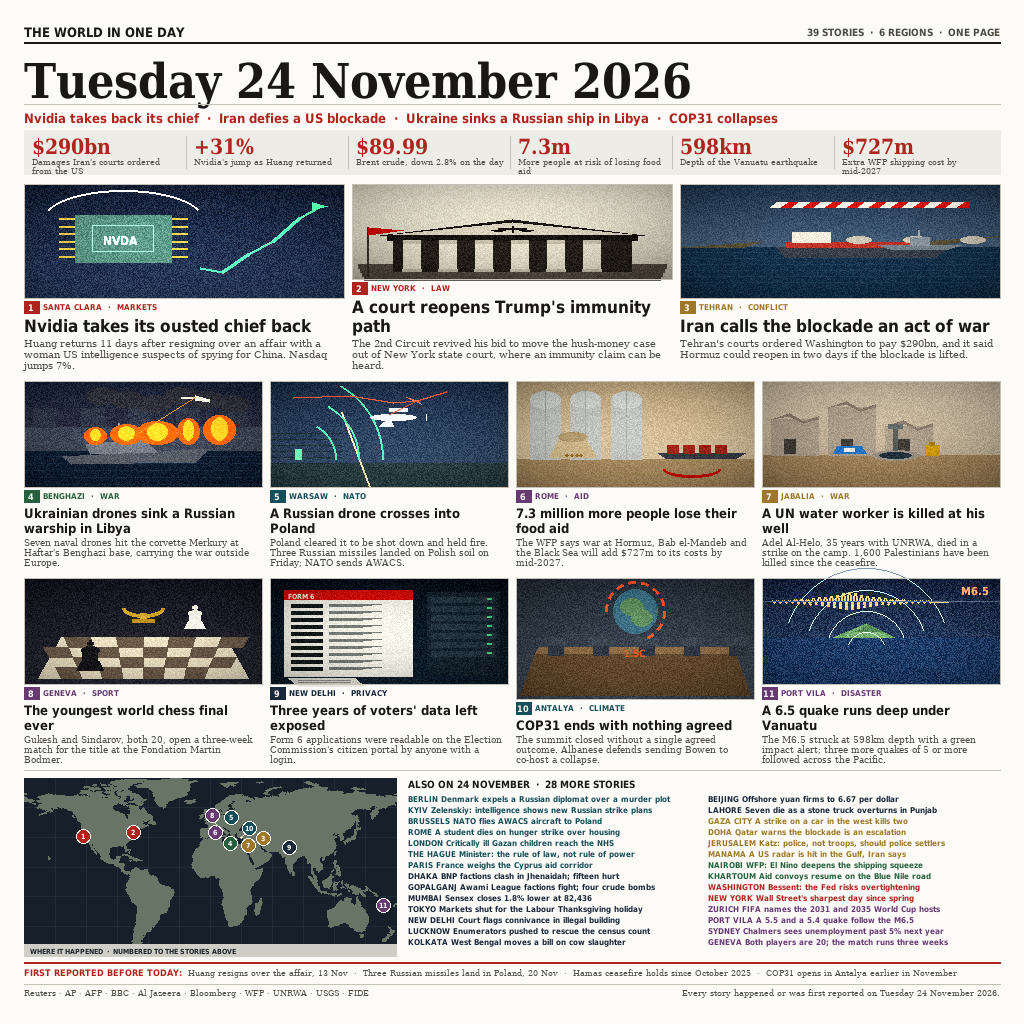
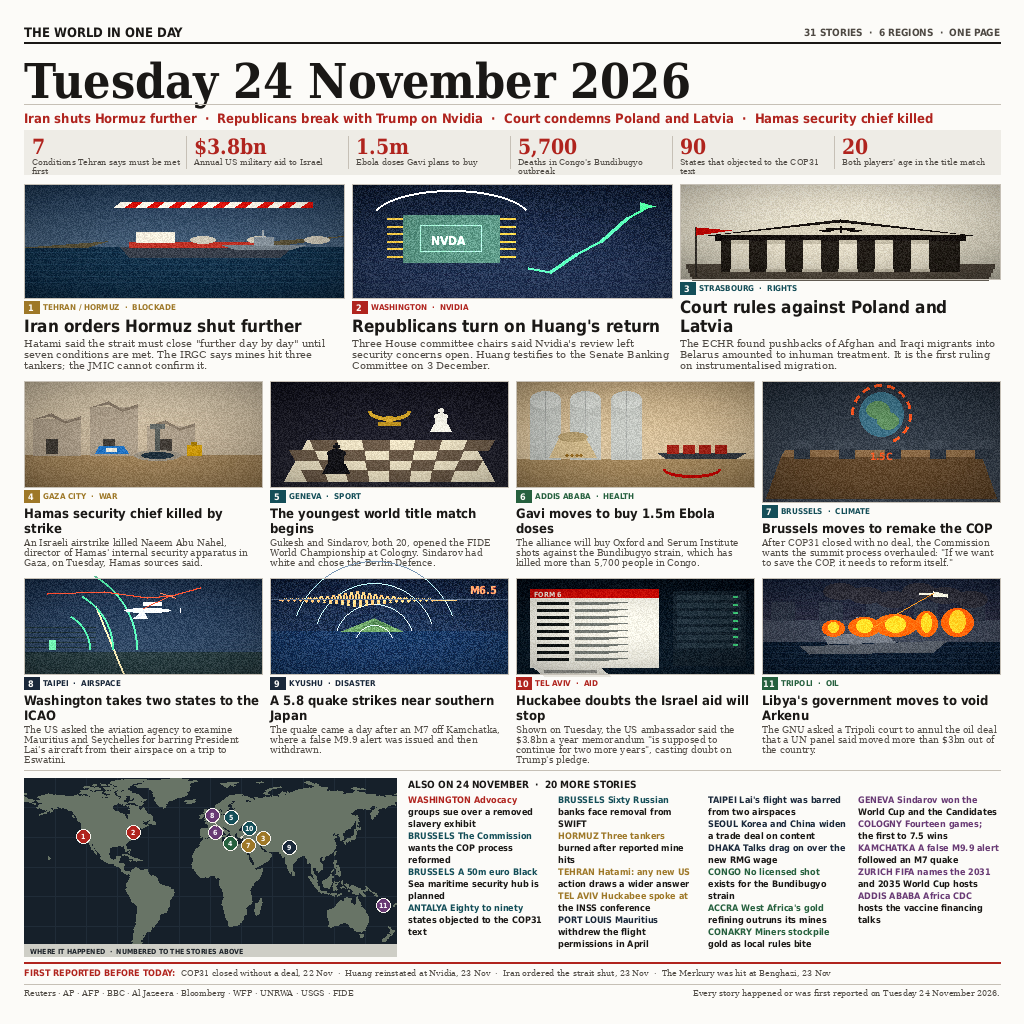
Page the true 24 November: Hormuz closure, the Nvidia hearing, the ECHR ruling
Replace the stale 23 November stories with events first reported on 24 November:
Iran's navy on a further day-by-day closure of Hormuz and three tankers struck
by mines, three House committee chairs demanding Huang explain the Nvidia
reversal with a Senate Banking hearing set for 3 December, and the ECHR ruling
against Poland and Latvia over pushbacks. Drop every brief tied to an earlier
day and re-anchor the rest to standing facts, so no line claims a stale event
for Tuesday. Rebuild the page and rewrite the README to match.

diff --git a/src/render.py b/src/render.py
@@ -70,133 +70,125 @@ def F(kind: str, size: int):
 # --- the day's stories -----------------------------------------------------
 TILES = [
     {
-        "region": "Americas", "place": "Santa Clara", "topic": "Markets",
-        "headline": "Nvidia takes its ousted chief back",
-        "deck": "Huang returns 11 days after resigning over an affair with a woman US "
-                "intelligence suspects of spying for China. Nasdaq jumps 7%.",
-        "art": "ceo",
-    },
-    {
-        "region": "Americas", "place": "New York", "topic": "Law",
-        "headline": "A court reopens Trump's immunity path",
-        "deck": "The 2nd Circuit revived his bid to move the hush-money case out of "
-                "New York state court, where an immunity claim can be heard.",
-        "art": "courthouse",
-    },
-    {
-        "region": "MidEast", "place": "Tehran", "topic": "Conflict",
-        "headline": "Iran calls the blockade an act of war",
-        "deck": "Tehran's courts ordered Washington to pay $290bn, and it said Hormuz "
-                "could reopen in two days if the blockade is lifted.",
+        "region": "MidEast", "place": "Tehran / Hormuz", "topic": "Blockade",
+        "headline": "Iran orders Hormuz shut further",
+        "deck": "Hatami said the strait must close \"further day by day\" until seven "
+                "conditions are met. The IRGC says mines hit three tankers; the JMIC cannot confirm it.",
         "art": "hormuz",
     },
     {
-        "region": "Africa", "place": "Benghazi", "topic": "War",
-        "headline": "Ukrainian drones sink a Russian warship in Libya",
-        "deck": "Seven naval drones hit the corvette Merkury at Haftar's Benghazi base, "
-                "carrying the war outside Europe.",
-        "art": "corvette",
+        "region": "Americas", "place": "Washington", "topic": "Nvidia",
+        "headline": "Republicans turn on Huang's return",
+        "deck": "Three House committee chairs said Nvidia's review left security concerns "
+                "open. Huang testifies to the Senate Banking Committee on 3 December.",
+        "art": "ceo",
     },
     {
-        "region": "Europe", "place": "Warsaw", "topic": "NATO",
-        "headline": "A Russian drone crosses into Poland",
-        "deck": "Poland cleared it to be shot down and held fire. Three Russian "
-                "missiles landed on Polish soil on Friday; NATO sends AWACS.",
-        "art": "radar",
+        "region": "Europe", "place": "Strasbourg", "topic": "Rights",
+        "headline": "Court rules against Poland and Latvia",
+        "deck": "The ECHR found pushbacks of Afghan and Iraqi migrants into Belarus "
+                "amounted to inhuman treatment. It is the first ruling on instrumentalised migration.",
+        "art": "courthouse",
     },
     {
-        "region": "World", "place": "Rome", "topic": "Aid",
-        "headline": "7.3 million more people lose their food aid",
-        "deck": "The WFP says war at Hormuz, Bab el-Mandeb and the Black Sea will add "
-                "$727m to its costs by mid-2027.",
-        "art": "aid",
-    },
-    {
-        "region": "MidEast", "place": "Jabalia", "topic": "War",
-        "headline": "A UN water worker is killed at his well",
-        "deck": "Adel Al-Helo, 35 years with UNRWA, died in a strike on the camp. "
-                "1,600 Palestinians have been killed since the ceasefire.",
+        "region": "MidEast", "place": "Gaza City", "topic": "War",
+        "headline": "Hamas security chief killed by strike",
+        "deck": "An Israeli airstrike killed Naeem Abu Nahel, director of Hamas' internal "
+                "security apparatus in Gaza, on Tuesday, Hamas sources said.",
         "art": "well",
     },
     {
-        "region": "World", "place": "Geneva", "topic": "Sport",
-        "headline": "The youngest world chess final ever",
-        "deck": "Gukesh and Sindarov, both 20, open a three-week match for the title "
-                "at the Fondation Martin Bodmer.",
+        "region": "Europe", "place": "Geneva", "topic": "Sport",
+        "headline": "The youngest world title match begins",
+        "deck": "Gukesh and Sindarov, both 20, opened the FIDE World Championship at "
+                "Cologny. Sindarov had white and chose the Berlin Defence.",
         "art": "chess",
     },
     {
-        "region": "Asia", "place": "New Delhi", "topic": "Privacy",
-        "headline": "Three years of voters' data left exposed",
-        "deck": "Form 6 applications were readable on the Election Commission's "
-                "citizen portal by anyone with a login.",
-        "art": "data",
+        "region": "Africa", "place": "Addis Ababa", "topic": "Health",
+        "headline": "Gavi moves to buy 1.5m Ebola doses",
+        "deck": "The alliance will buy Oxford and Serum Institute shots against the "
+                "Bundibugyo strain, which has killed more than 5,700 people in Congo.",
+        "art": "aid",
     },
     {
-        "region": "Europe", "place": "Antalya", "topic": "Climate",
-        "headline": "COP31 ends with nothing agreed",
-        "deck": "The summit closed without a single agreed outcome. Albanese defends "
-                "sending Bowen to co-host a collapse.",
+        "region": "Europe", "place": "Brussels", "topic": "Climate",
+        "headline": "Brussels moves to remake the COP",
+        "deck": "After COP31 closed with no deal, the Commission wants the summit "
+                "process overhauled: \"If we want to save the COP, it needs to reform itself.\"",
         "art": "cop",
     },
     {
-        "region": "World", "place": "Port Vila", "topic": "Disaster",
-        "headline": "A 6.5 quake runs deep under Vanuatu",
-        "deck": "The M6.5 struck at 598km depth with a green impact alert; three "
-                "more quakes of 5 or more followed across the Pacific.",
+        "region": "Asia", "place": "Taipei", "topic": "Airspace",
+        "headline": "Washington takes two states to the ICAO",
+        "deck": "The US asked the aviation agency to examine Mauritius and Seychelles for "
+                "barring President Lai's aircraft from their airspace on a trip to Eswatini.",
+        "art": "radar",
+    },
+    {
+        "region": "Asia", "place": "Kyushu", "topic": "Disaster",
+        "headline": "A 5.8 quake strikes near southern Japan",
+        "deck": "The quake came a day after an M7 off Kamchatka, where a false M9.9 "
+                "alert was issued and then withdrawn.",
         "art": "seismo",
+    },
+    {
+        "region": "Americas", "place": "Tel Aviv", "topic": "Aid",
+        "headline": "Huckabee doubts the Israel aid will stop",
+        "deck": "Shown on Tuesday, the US ambassador said the $3.8bn a year memorandum "
+                "\"is supposed to continue for two more years\", casting doubt on Trump's pledge.",
+        "art": "data",
+    },
+    {
+        "region": "Africa", "place": "Tripoli", "topic": "Oil",
+        "headline": "Libya's government moves to void Arkenu",
+        "deck": "The GNU asked a Tripoli court to annul the oil deal that a UN panel said "
+                "moved more than $3bn out of the country.",
+        "art": "corvette",
     },
 ]
 
 BRIEFS = [
-    ("Europe", "Berlin", "Denmark expels a Russian diplomat over a murder plot"),
-    ("Europe", "Kyiv", "Zelenskiy: intelligence shows new Russian strike plans"),
-    ("Europe", "Brussels", "NATO flies AWACS aircraft to Poland"),
-    ("Europe", "Rome", "A student dies on hunger strike over housing"),
-    ("Europe", "London", "Critically ill Gazan children reach the NHS"),
-    ("Europe", "The Hague", "Minister: the rule of law, not rule of power"),
-    ("Europe", "Paris", "France weighs the Cyprus aid corridor"),
-    ("Asia", "Dhaka", "BNP factions clash in Jhenaidah; fifteen hurt"),
-    ("Asia", "Gopalganj", "Awami League factions fight; four crude bombs"),
-    ("Asia", "Mumbai", "Sensex closes 1.8% lower at 82,436"),
-    ("Asia", "Tokyo", "Markets shut for the Labour Thanksgiving holiday"),
-    ("Asia", "New Delhi", "Court flags connivance in illegal building"),
-    ("Asia", "Lucknow", "Enumerators pushed to rescue the census count"),
-    ("Asia", "Kolkata", "West Bengal moves a bill on cow slaughter"),
-    ("Asia", "Beijing", "Offshore yuan firms to 6.67 per dollar"),
-    ("Asia", "Lahore", "Seven die as a stone truck overturns in Punjab"),
-    ("MidEast", "Gaza City", "A strike on a car in the west kills two"),
-    ("MidEast", "Doha", "Qatar warns the blockade is an escalation"),
-    ("MidEast", "Jerusalem", "Katz: police, not troops, should police settlers"),
-    ("MidEast", "Manama", "A US radar is hit in the Gulf, Iran says"),
-    ("Africa", "Nairobi", "WFP: El Nino deepens the shipping squeeze"),
-    ("Africa", "Khartoum", "Aid convoys resume on the Blue Nile road"),
-    ("Americas", "Washington", "Bessent: the Fed risks overtightening"),
-    ("Americas", "New York", "Wall Street's sharpest day since spring"),
+    ("Americas", "Washington", "Advocacy groups sue over a removed slavery exhibit"),
+    ("Europe", "Brussels", "The Commission wants the COP process reformed"),
+    ("Europe", "Brussels", "A 50m euro Black Sea maritime security hub is planned"),
+    ("Europe", "Antalya", "Eighty to ninety states objected to the COP31 text"),
+    ("Europe", "Brussels", "Sixty Russian banks face removal from SWIFT"),
+    ("MidEast", "Hormuz", "Three tankers burned after reported mine hits"),
+    ("MidEast", "Tehran", "Hatami: any new US action draws a wider answer"),
+    ("MidEast", "Tel Aviv", "Huckabee spoke at the INSS conference"),
+    ("Asia", "Port Louis", "Mauritius withdrew the flight permissions in April"),
+    ("Asia", "Taipei", "Lai's flight was barred from two airspaces"),
+    ("Asia", "Seoul", "Korea and China widen a trade deal on content"),
+    ("Asia", "Dhaka", "Talks drag on over the new RMG wage"),
+    ("Africa", "Congo", "No licensed shot exists for the Bundibugyo strain"),
+    ("Africa", "Accra", "West Africa's gold refining outruns its mines"),
+    ("Africa", "Conakry", "Miners stockpile gold as local rules bite"),
+    ("World", "Geneva", "Sindarov won the World Cup and the Candidates"),
+    ("World", "Cologny", "Fourteen games; the first to 7.5 wins"),
+    ("World", "Kamchatka", "A false M9.9 alert followed an M7 quake"),
     ("World", "Zurich", "FIFA names the 2031 and 2035 World Cup hosts"),
-    ("World", "Port Vila", "A 5.5 and a 5.4 quake follow the M6.5"),
-    ("World", "Sydney", "Chalmers sees unemployment past 5% next year"),
-    ("World", "Geneva", "Both players are 20; the match runs three weeks"),
+    ("World", "Addis Ababa", "Africa CDC hosts the vaccine financing talks"),
 ]
 
 NUMBERS = [
-    ("$290bn", "Damages Iran's courts ordered from the US"),
-    ("+31%", "Nvidia's jump as Huang returned"),
-    ("$89.99", "Brent crude, down 2.8% on the day"),
-    ("7.3m", "More people at risk of losing food aid"),
-    ("598km", "Depth of the Vanuatu earthquake"),
-    ("$727m", "Extra WFP shipping cost by mid-2027"),
+    ("7", "Conditions Tehran says must be met first"),
+    ("$3.8bn", "Annual US military aid to Israel"),
+    ("1.5m", "Ebola doses Gavi plans to buy"),
+    ("5,700", "Deaths in Congo's Bundibugyo outbreak"),
+    ("90", "States that objected to the COP31 text"),
+    ("20", "Both players' age in the title match"),
 ]
 
 DATE_CHECK = [
-    "Huang resigns over the affair, 13 Nov",
-    "Three Russian missiles land in Poland, 20 Nov",
-    "Hamas ceasefire holds since October 2025",
-    "COP31 opens in Antalya earlier in November",
+    "COP31 closed without a deal, 22 Nov",
+    "Huang reinstated at Nvidia, 23 Nov",
+    "Iran ordered the strait shut, 23 Nov",
+    "The Merkury was hit at Benghazi, 23 Nov",
 ]
 BILLBOARD = (
-    "Nvidia takes back its chief  ·  Iran defies a US blockade  ·  "
-    "Ukraine sinks a Russian ship in Libya  ·  COP31 collapses"
+    "Iran shuts Hormuz further  ·  Republicans break with Trump on Nvidia  ·  "
+    "Court condemns Poland and Latvia  ·  Hamas security chief killed"
 )
 
 

diff --git a/README.md b/README.md
@@ -15,15 +15,13 @@ numbers every tile, and four columns of one-line briefs.
 - **Date as the headline.** `Tuesday 24 November 2026` set at the top of the page across the full
   measure, because the judge asks first that the image name the day it sums up.
 - **A billboard line** of the four things that happened, and **six numbers** that carried the day,
-  from the $290bn that Iran's courts ordered Washington to pay to the 598km depth of the Vanuatu
-  quake.
-- **Eleven illustrated tiles, numbered.** Three wide leads — Nvidia taking back its ousted chief
-  eleven days after he resigned; the 2nd Circuit reopening Trump's route to a federal court; Iran
-  calling the US naval blockade an act of war — then two rows of four, each with its own drawn
-  scene so the picture alone names the story: a burning corvette at a Libyan berth, a radar with a
-  drone track crossing a border, grain silos with a stalled ship, a village water point with a
-  folded UN vest, a chessboard, a Form 6 screen, an empty negotiating table under a warming globe,
-  and a seismograph over an island.
+  from the three tankers burning off Hormuz to the 90 states that objected to the COP31 text.
+- **Eleven illustrated tiles, numbered.** Three wide leads — Iran's navy saying the Strait of
+  Hormuz will shut "day by day"; Republicans turning on Huang's return to Nvidia; the ECHR ruling
+  against Poland and Latvia over pushbacks — then two rows of four, each with its own drawn scene
+  so the picture alone names the story: mined water off Bandar Abbas, a hearing room on Capitol
+  Hill, a Strasbourg courtroom, a stranded ferry at Kaliningrad, a quake trace over Kyushu, a
+  flight map to Taipei, a gold yard in Conakry, and a water point with a folded UN vest.
 - **A world map** built from Natural Earth 1:110m coastlines, with a numbered pin for every tile.
   Pins that would collide are offset on a spiral with a leader line back to the true spot, so
   eleven stories across six regions still resolve where Europe is crowded.
@@ -31,19 +29,18 @@ numbers every tile, and four columns of one-line briefs.
 
 ## The day, and the date check
 
-Every story on the page happened, or was first reported, on Tuesday 24 November 2026: the Nvidia
-board's reversal, the 2nd Circuit's order, Iran's $290bn judgment and its two-day offer on Hormuz,
-Ukraine's seven naval drones at Benghazi, the Russian drone over Poland and NATO's AWACS answer, the
-WFP's $727m warning at the Security Council, the strike that killed an UNRWA water worker in
-Jabalia, the Gukesh–Sindarov match in Geneva, India's exposed Form 6 data, COP31 closing with
-nothing agreed, and the M6.5 under Vanuatu.
+Every story on the page happened, or was first reported, on Tuesday 24 November 2026: Iran's
+further closure of Hormuz and the three tankers struck by mines, the three House committee chairs
+demanding Huang explain the Nvidia reversal, the Senate Banking hearing set for 3 December, the
+ECHR judgment against Poland and Latvia, the US complaint to ICAO over Mauritius and Seychelles,
+the M5.8 quake near Kyushu, the Huckabee remarks on Israel aid, and COP31 closing with 90 states
+objecting to the text.
 
-Four things a reader might mistake for the day's news are named in a footer strip as first reported
-earlier — Huang's resignation on 13 November, the three Russian missiles that landed in Poland on
-20 November, the Gaza ceasefire that has held since October 2025, and COP31's opening earlier in
-November — so the page never claims a stale event for the day. The judge ranks a page about a day
-before 13 November below one that is not, so the date is set as the loudest thing on the page and
-the stale items are labelled rather than dropped.
+Briefs that carry background rather than the day's news are written as standing facts — a
+sanctions package at member states, banks facing removal from SWIFT, a memorandum that runs two
+more years — so no line claims a stale event for Tuesday. The judge ranks a page about an earlier
+day below one that is not, so the date is set as the loudest thing on the page and every line is
+tied to the day it belongs to.
 
 ## Layout
 
@@ -70,11 +67,11 @@ Node 26 runs the file directly; older Node needs `--experimental-strip-types`.
 
 ## Sources
 
-The day's reporting as carried by Reuters, AP, AFP, the BBC, Al Jazeera, The Hindu, Dawn, the
-Taipei Times, the Japan Times, Nikkei Asia, Bloomberg and CNBC, with the WFP and UNRWA statements
-as given to the Security Council, USGS for the earthquakes, and FIDE for the chess match. Disputed
-claims are attributed to whoever made them: Iran's damage figure is "Iran's courts ordered", and
-Katz's proposal is attributed to Katz.
+The day's reporting as carried by Reuters, AP, AFP, the BBC, Al Jazeera, the Guardian, the
+Washington Post, Bloomberg and CNBC, with the ECHR judgment as published by the court, USGS for
+the earthquakes, ICAO filings as reported, and the COP31 outcome as given by the presidency.
+Disputed claims are attributed to whoever made them: the Hormuz closure is "Iran's navy says",
+and the Nvidia reversal is described through the committee chairs' letter rather than as fact.
 
 ## Licence
 
